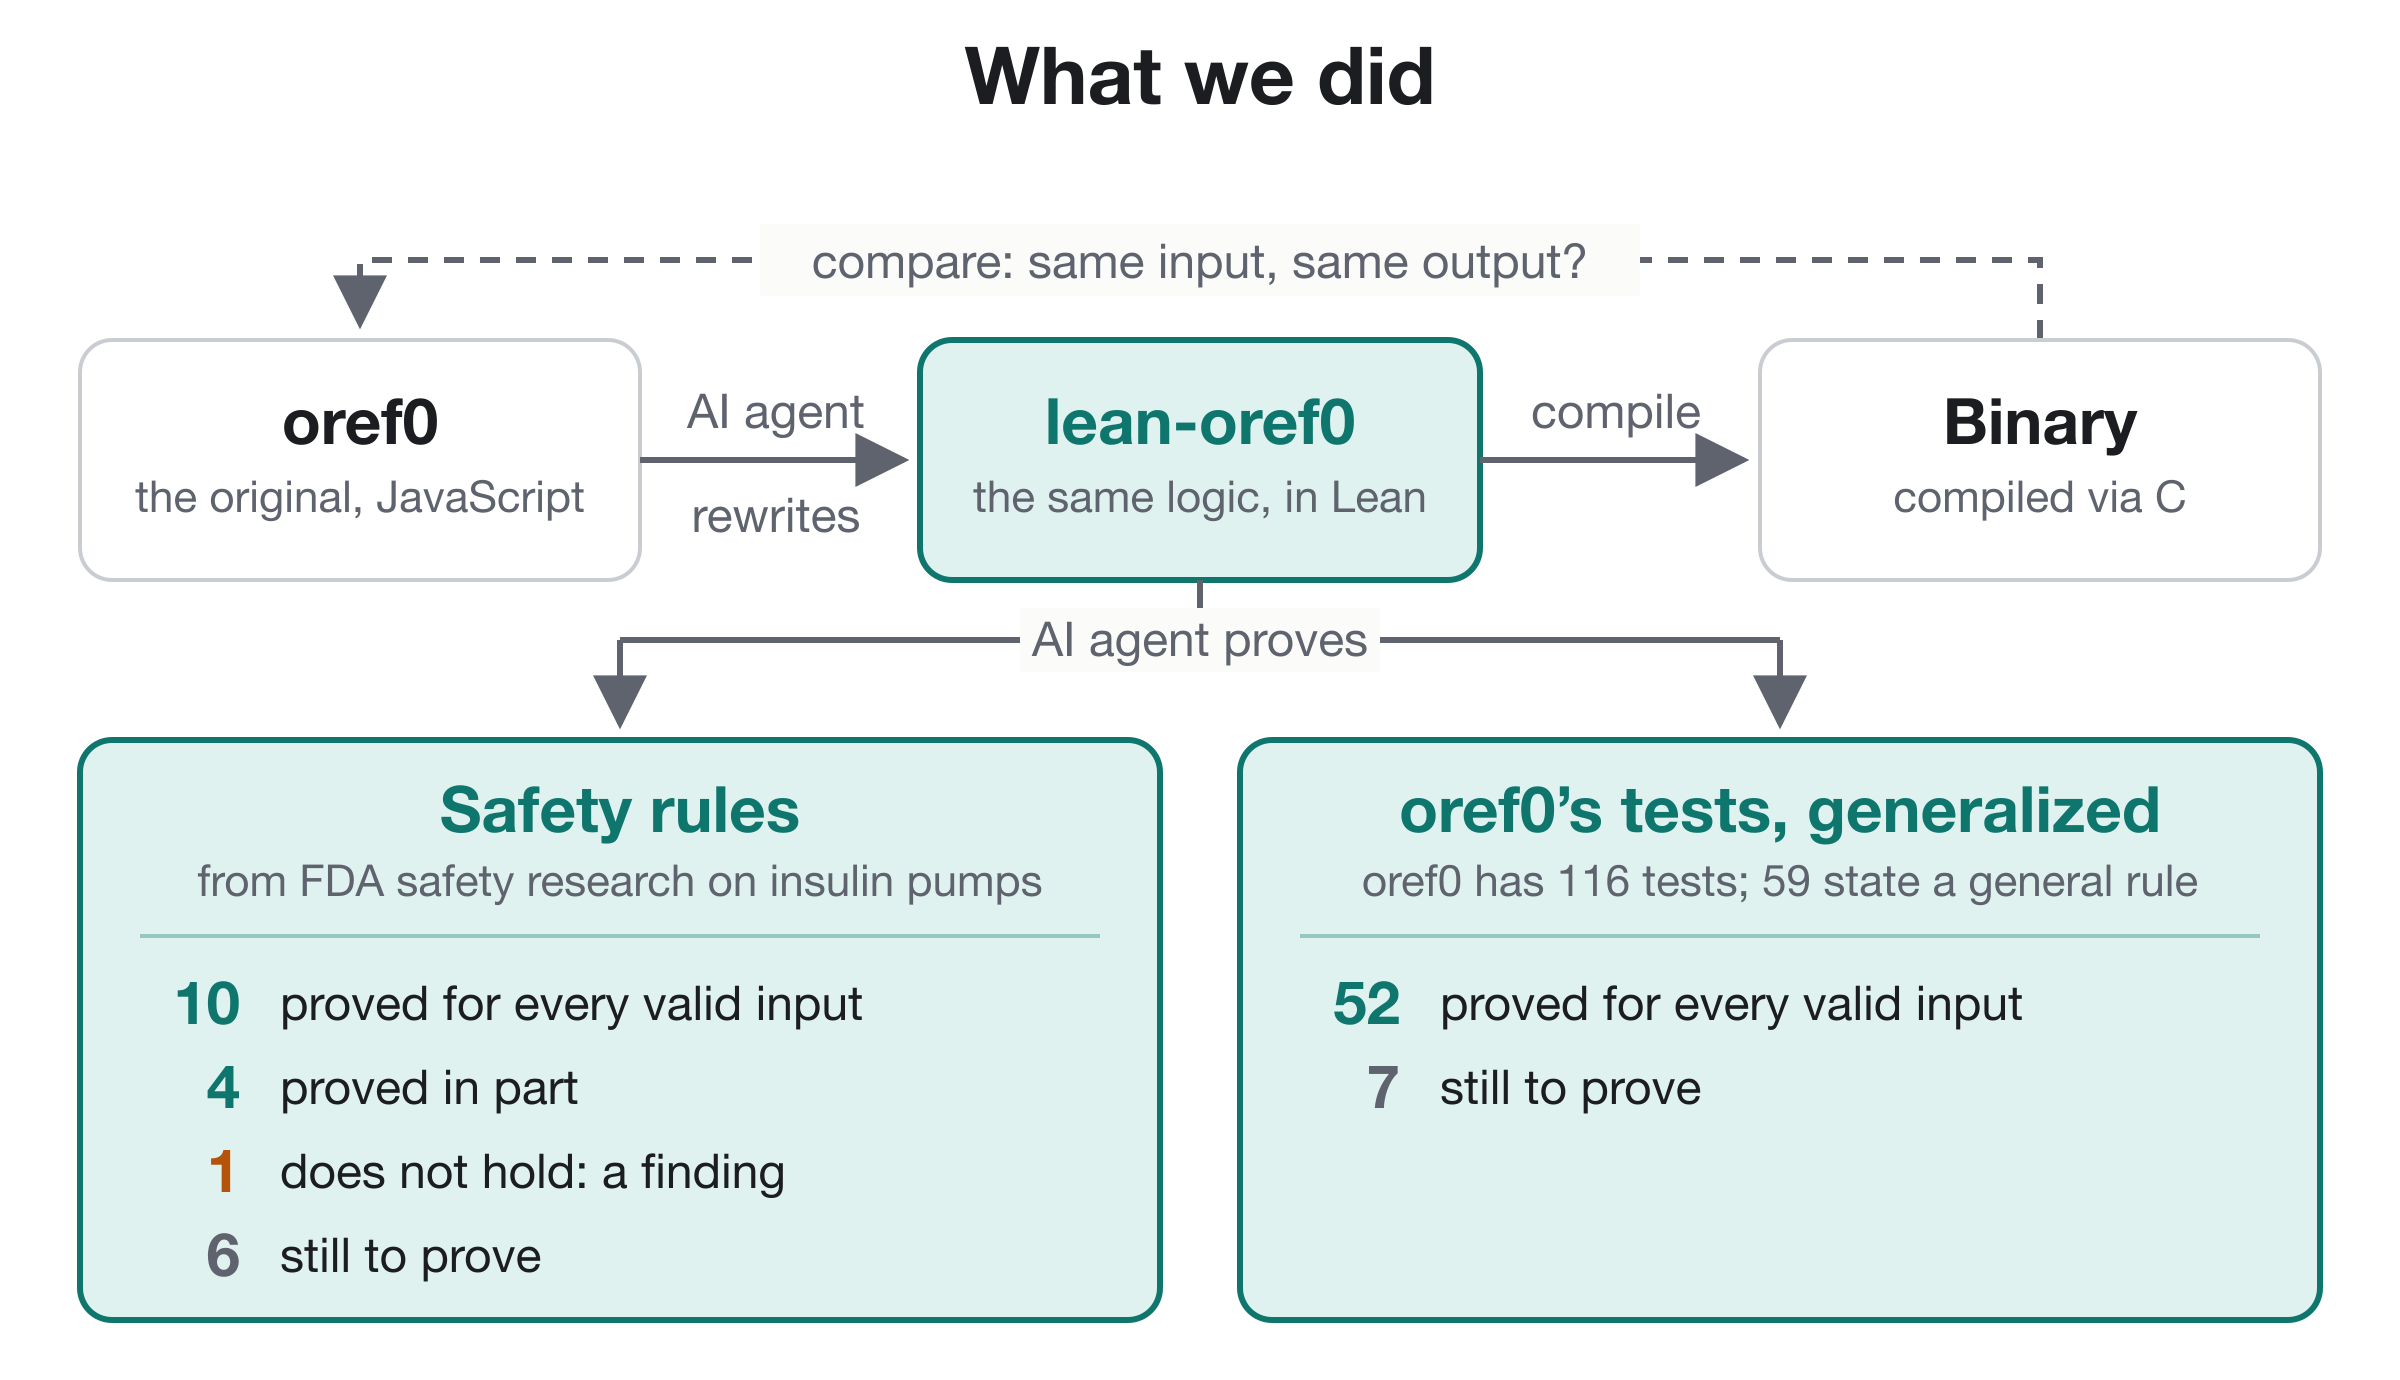
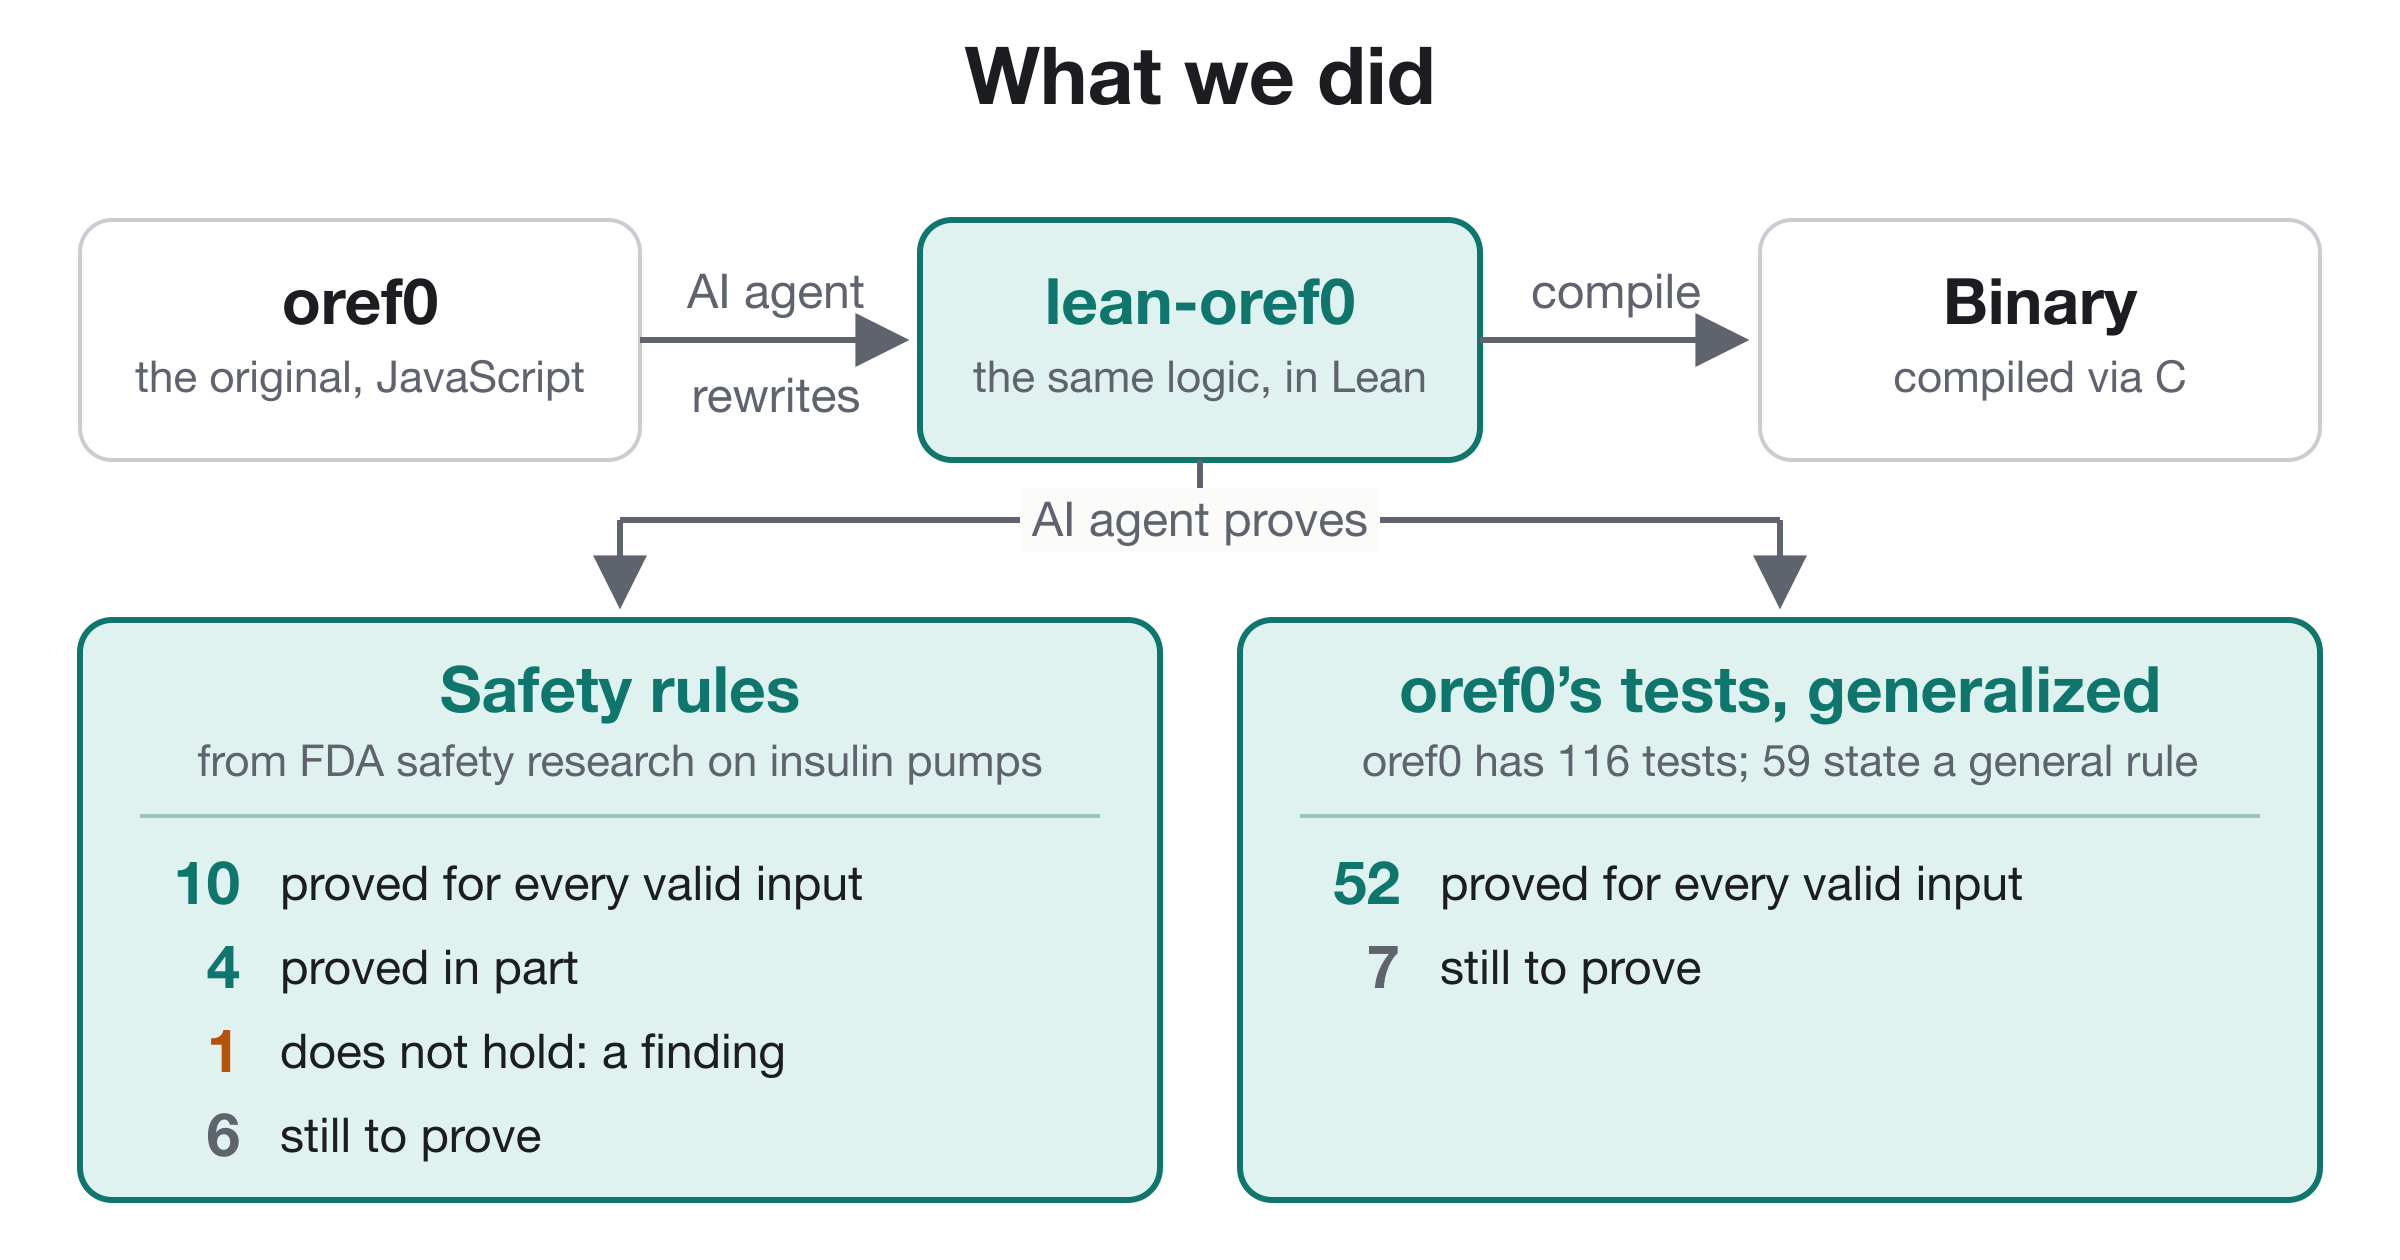
Diagram: drop the compare arrow (covered by the testing diagram)

diff --git a/site/index.html b/site/index.html
@@ -200,7 +200,7 @@ footer li { margin: 3px 0; }
   <div class="wrap">
     <h2>What we did</h2>
     <p class="sub">Three steps, all carried out by an AI agent and checked by a computer.</p>
-    <img class="diagram fig" src="img/did.svg" width="1200" height="690" alt="An AI agent rewrote oref0 from JavaScript into Lean, compiled the Lean version into a binary via C, and compared it with the original. It proved two kinds of theorems. Safety rules from FDA research on insulin pumps: 10 proved for every valid input, 4 in part, 1 does not hold (a finding), 6 still to prove. oref0’s tests, generalized: of 116 tests, 59 state a general rule; 52 are proved for every valid input and 7 are still to prove.">
+    <img class="diagram fig" src="img/did.svg" width="1200" height="630" alt="An AI agent rewrote oref0 from JavaScript into Lean, compiled the Lean version into a binary via C, and compared it with the original. It proved two kinds of theorems. Safety rules from FDA research on insulin pumps: 10 proved for every valid input, 4 in part, 1 does not hold (a finding), 6 still to prove. oref0’s tests, generalized: of 116 tests, 59 state a general rule; 52 are proved for every valid input and 7 are still to prove.">
     <div class="layer"><span class="num">1</span><div>
       <h3>Rewrote oref0 from JavaScript in Lean</h3>
       <p>Function by function, so every piece of the Lean code matches a piece of the original. It compiles to a program, <code>aid-lean</code>, that takes the same inputs and gives the same kind of answer as the original.</p>
